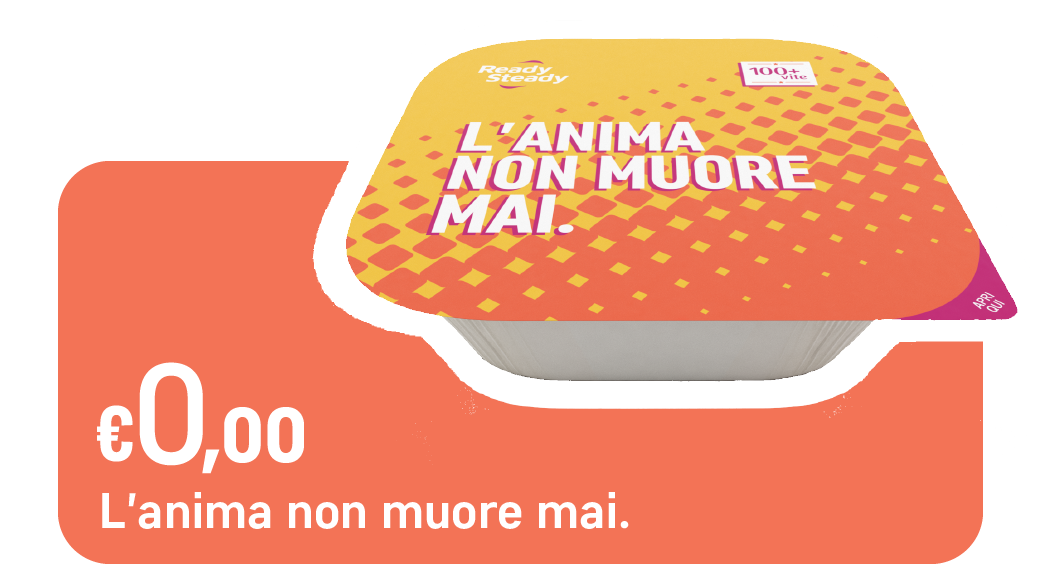
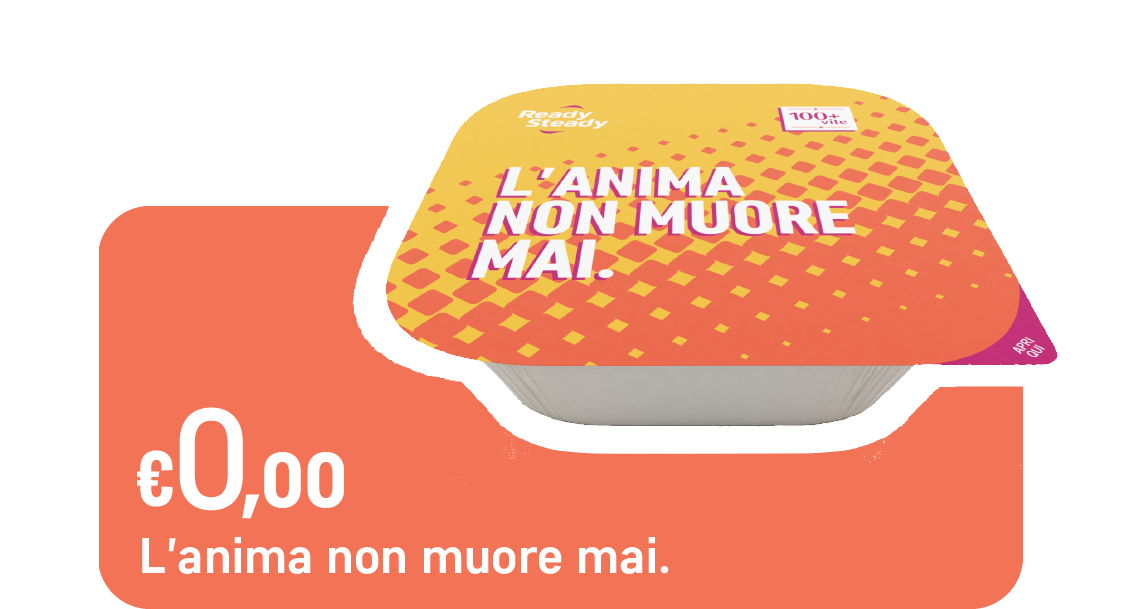
prodotti

Changed region(s): [[0.0307, 0.0603, 0.9837, 1.0], [0.7685, 0.4521, 0.7992, 0.4823]]

diff --git a/mobile/prodotti.mobile.html b/mobile/prodotti.mobile.html
@@ -26,10 +26,25 @@
         z-index: 1;
       }
 
-      #vaschette {
+      #contenitore1 {
         position: absolute;
         top: 0; left: 0;
         width: 100%; height: 100%;
+      }
+
+      #contenitore2 {
+        position: absolute;
+        top: calc(100/19*10%); left: 0;
+        width: 100%; height: 100%;
+      }
+
+      #grande {
+        position: absolute;
+        left: 0;
+        height: calc(100/19*10%); width: 100%;
+        background-size: contain;
+        background-repeat: no-repeat;
+        background-position: center bottom;
       }
   </style>
 </head>
@@ -41,7 +56,13 @@
   <a href="index.mobile.html">
   <div id="marchio">
   </div>  </a>
-  <div id="vaschette">
+  <div id="contenitore1">
+  </div>
+  <div id="contenitore2">
+  </div>
+  <div id="contenitore3">
+  </div>
+  <div id="contenitore4">
   </div>
   <div id="linee">
   </div>
@@ -64,20 +85,45 @@ $("#linee").on("click", function() {
 })
 
 //VERITA
+//crea le verita
 function createVer() {
+  //contenitore1
   for (i=1; i<5; i++) {
-    var v = "<div id='v"+i+"' class='veritadim'><a href='./prodotto.singolo.mobile.html' style='display: block'></a></div>";
-    $("#vaschette").append(v)
+    var v = "<div id='v"+i+"' class='v'><a href='./prodotto.singolo.mobile.html' style='display: block'></a></div>";
+    $("#contenitore1").append(v)
     var top = i*31.57;
     $("#v"+i).css({
       top: top+"%",
       "background-image": "url('./links/v"+i+".png')",
-    }).addClass("v")
+    })
+  }
+  var prodottoGrande = "<div id='v5' class='grande'><a href='./prodotto.singolo.mobile.html' style='display: block'></a></div>";
+  $("#contenitore1").append(prodottoGrande)
+
+  //contenitore2
+  for (i=6; i<10; i++) {
+    var v = "<div id='v"+i+"' class='v'><a href='./prodotto.singolo.mobile.html' style='display: block'></a></div>";
+    $("#contenitore2").append(v)
+    var top = i*31.57;
+    $("#v"+i).css({
+      top: top+"%",
+      "background-image": "url('./links/v"+i+".png')",
+    })
+  }
+}
+
+function posizione() {
+  for (i=1; i<11; i++) {
+    var top = i*31.57;
+    $("#v"+i).css({
+      top: top+"%",
+      "background-image": "url('./links/v"+i+".png')",
+    })
   }
 }
 
 
-  $("#vaschette").click(function(){
+  $("#contenitore1").click(function(){
     console.log("ciccio")
     window.location=$(this).find("a").attr("href"); return false; //link
 });
